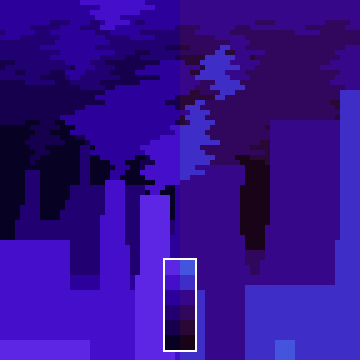
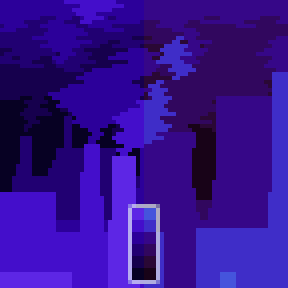
Second Page

Changed region(s): [[0.4375, 0.6875, 0.5625, 1.0]]

diff --git a/rgb-pixels/hue-shifting.html b/rgb-pixels/hue-shifting.html
@@ -41,31 +41,39 @@
         </nav>
     </header>
     <main>
-        <div class="hue-top">
-            <section class="shift-example">
-                <h4>Without Shift</h4>
-                <h4>With Shift</h4>
-                <img src="images/hue-shifting_example.png" alt="example of hue shifting">
-            </section>
-            <p>
-                Hue Shifting is a very important skill for pixel art. It is the practice of shifting a color's hue in a palette
-                (especially when shading). Generally, a color will be shifted towards a warmer hue as it gets lighter, and shifted
-                towards a cooler hue as it gets darker. This makes the shadows look cooler and the highlights look warmer (which is
-                what you'd expect from light). There are a couple exceptions to this generalized rule. For example, when hue-shifting
-                with yellow, you can go towards green or orange for the darker shades, while for lighter shades you'd usually want to
-                go closer to white (no hue is lighter than yellow). A similar rule applies to cyan - darker shades go towards blue,
-                but lighter shades match white better than they match green. 
-            </p>
-        </div>
-        <div class="hue-bottom">
-            <p>
-                Like any other art, these guidelines are only a recommendation and do not need to be followed exactly
-                as I explain on this page. You could reverse the direction of the shift to get an unnatural look, or you could
-                increase/reduce the shift to better fit the look you're going for. Regardless of how you use it, Hue Shifting gives
-                your palette a lot more depth and vibrancy, and ultimately results in a nicer image.
-            </p>
-            <section class="shift-explanation">
-                <img src="images/hue-shifting_explanation.png">
+        <div class="hue-content">
+            <div id="shift-example">
+                <div class="container">
+                    <img src="images/hue-shifting_example.png" alt="Hue-shifting example">
+                    <img class="frame" src="images/image_frame.png" alt="">
+                    <div class="hue-overlay">
+                        <div class="text-left">Without Shift</div>
+                        <div class="text-right">With Shift</div>
+                    </div>
+                </div>
+            </div>
+            <div class="hue-info-top">
+                <p>
+                    Hue Shifting is a very important skill for pixel art. It is the practice of shifting a color's hue in a palette
+                    (especially when shading). Generally, a color will be shifted towards a warmer hue as it gets lighter, and shifted
+                    towards a cooler hue as it gets darker. This makes the shadows look cooler and the highlights look warmer (which is
+                    what you'd expect from light). There are a couple exceptions to this generalized rule. For example, when hue-shifting
+                    with yellow, you can go towards green or orange for the darker shades, while for lighter shades you'd usually want to
+                    go closer to white (no hue is lighter than yellow). A similar rule applies to cyan - darker shades go towards blue,
+                    but lighter shades match white better than they match green. 
+                </p>
+            </div>
+            <div class="hue-info-bottom">
+                <p>
+                    Like any other art, these guidelines are only a recommendation and do not need to be followed exactly
+                    as I explain on this page. You could reverse the direction of the shift to get an unnatural look, or you could
+                    increase/reduce the shift to better fit the look you're going for. Regardless of how you use it, Hue Shifting gives
+                    your palette a lot more depth and vibrancy, and ultimately results in a nicer image.
+                </p>
+            </div>
+            <div id="shift-explanation">
+                <img src="images/hue-shifting_explanation.png" alt="">
+                <img class="frame" src="images/image_frame.png" alt="">
                 <ul>
                     <li>Red shifts towards magenta or orange</li>
                     <li>Orange shifts towards red or yellow</li>
@@ -76,7 +84,7 @@
                     <li>Purple shifts towards blue or magenta</li>
                     <li>Magenta shifts towards purple or red</li>
                 </ul>
-            </section>
+            </div>
         </div>
     </main>
     <footer>

diff --git a/rgb-pixels/styles/styles.css b/rgb-pixels/styles/styles.css
@@ -134,9 +134,8 @@ nav a:hover {
   grid-column: 4/5;
 }
 .frame {
-  margin: 0 auto;
+  position: relative;
   width: 324px;
-  grid-row: 2/3;
   margin-top: -324px;
   margin-left: -18px;
   z-index: 1;
@@ -164,7 +163,72 @@ footer a:hover {
 }
 
 /* Page 2 CSS */
-
+.hue-content {
+  margin-top: 40px;
+  display: grid;
+  grid-template-columns: 500px 500px 500px;
+  grid-template-rows: 360px 360px;
+  background-color: var(--secondary-color);
+  text-align: center;
+  justify-content: center;
+}
+.hue-info-top {
+  grid-column: 2/4;
+  grid-row: 1/2;
+  width: 875px;
+  height: 288px;
+  margin: 0 auto;
+  margin-left: 20px;
+  color: var(--headline-color-on-color);
+  font-family: var(--paragraph-font);
+  background-color: var(--primary-color);
+}
+.hue-info-top p {
+  padding: 30px;
+  font-size: 1.45em;
+  margin: 0 auto;
+}
+.hue-info-bottom {
+  grid-column: 1/3;
+  grid-row: 2/3;
+  width: 875px;
+  height: 192px;
+  margin: 0 auto;
+  margin-left: 96px;
+  margin-top: 48px;
+  color: var(--headline-color-on-color);
+  font-family: var(--paragraph-font);
+  background-color: var(--primary-color);
+}
+.hue-info-bottom p {
+  padding: 30px;
+  font-size: 1.45em;
+  margin: 0 auto;
+}
+#shift-example {
+  width: 288px;
+  grid-column: 1/2;
+  grid-row: 1/2;
+  margin: 0 auto;
+}
+#shift-explanation {
+  width: 288px;
+  grid-column: 3/4;
+  grid-row: 2/3;
+  margin: 0 auto;
+}
+ul {
+  margin-top: -316px;
+  margin-left: 27px;
+  list-style: none;
+  text-align: left
+}
+li {
+  margin-top: 9px;
+  font-family: var(--paragraph-font);
+  color: var(--headline-color-on-color);
+  font-size: 1.2em;
+}
 
 /* Extra Effects */
 .container {
@@ -189,7 +253,22 @@ footer a:hover {
   transition: .3s ease;
   background-color: var(--primary-color);
 }
+.hue-overlay {
+  position: absolute;
+  grid-template-columns: 1fr 1fr;
+  top: 0;
+  bottom: 0;
+  left: 0;
+  right: 0;
+  height: 12.5%;
+  width: 288px;
+  opacity: 0;
+  transition: .3s ease;
+}
 .container:hover .overlay {
+  opacity: 1;
+}
+.container:hover .hue-overlay {
   opacity: 1;
 }
 .text {
@@ -203,5 +282,31 @@ footer a:hover {
   -ms-transform: translate(-50%, -50%);
   transform: translate(-50%, -50%);
   text-align: center;
+  margin-top: 1px;
+}
+.text-left {
+  color: var(--headline-color-on-color);
+  font-family: var(--paragraph-font);
+  font-size: 25px;
+  position: absolute;
+  top: 50%;
+  left: 25%;
+  -webkit-transform: translate(-50%, -50%);
+  -ms-transform: translate(-50%, -50%);
+  transform: translate(-50%, -50%);
+  text-align: left;
+  margin-top: 1px;
+}
+.text-right {
+  color: var(--headline-color-on-color);
+  font-family: var(--paragraph-font);
+  font-size: 25px;
+  position: absolute;
+  top: 50%;
+  left: 75%;
+  -webkit-transform: translate(-50%, -50%);
+  -ms-transform: translate(-50%, -50%);
+  transform: translate(-50%, -50%);
+  text-align: right;
   margin-top: 1px;
 }
